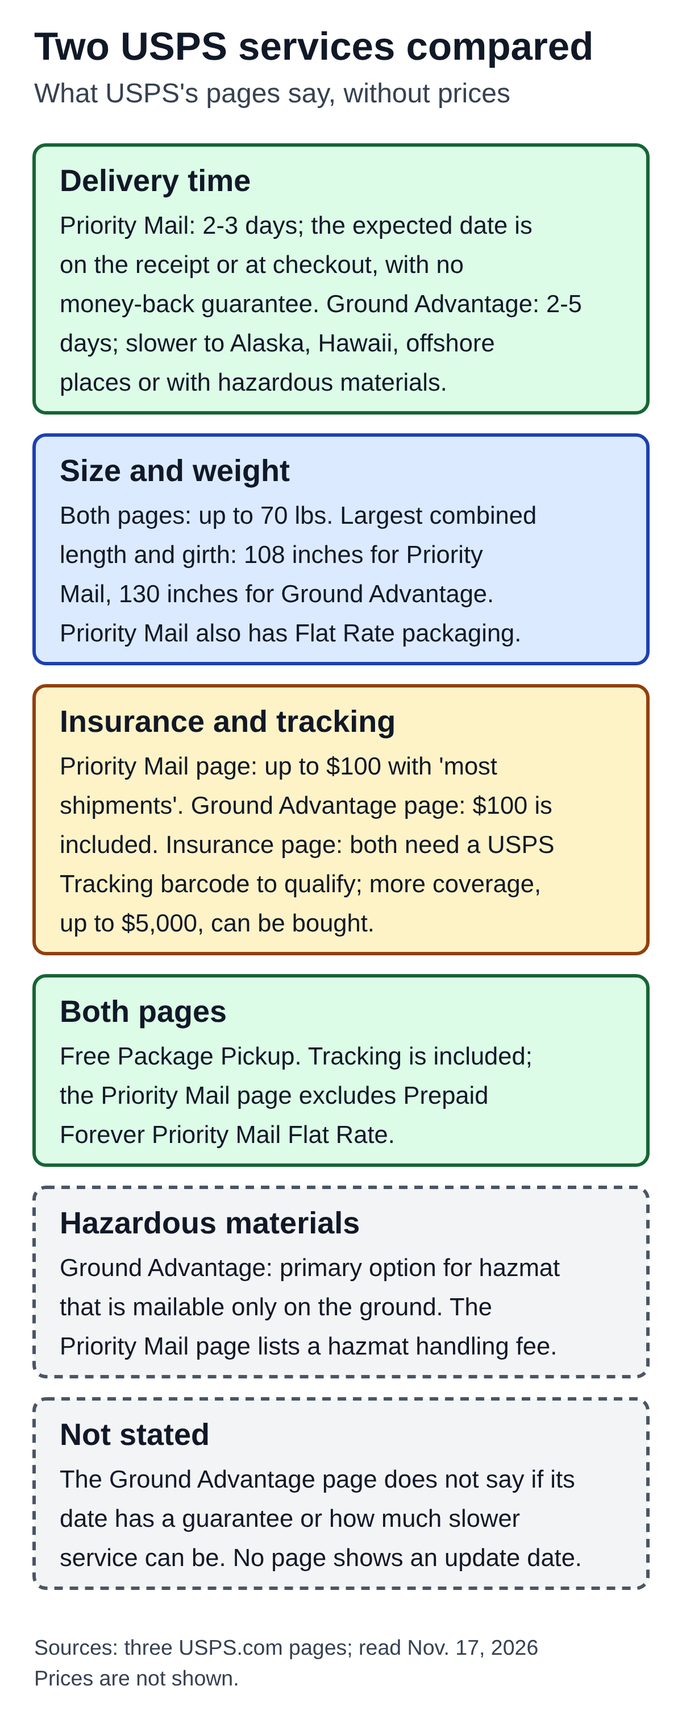
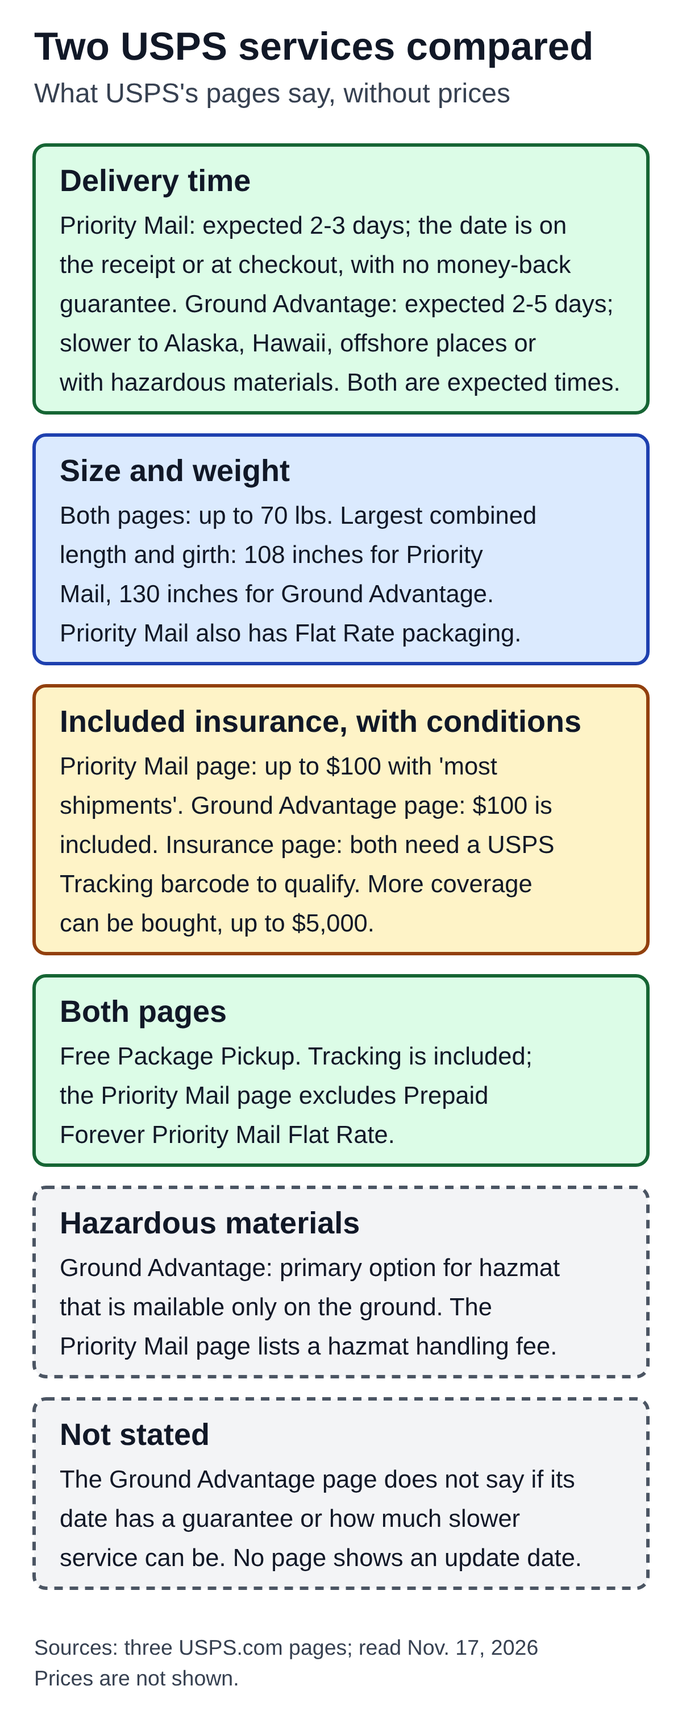
Apply Gate 2 FIX to the two USPS drafts
Priority Mail vs Ground Advantage: delivery times shown as expected in the
diagram, alt, lead and meta; insurance card retitled with conditions; DMM 503
Certified Mail sentence quoted from the DMM.
USPS claims: Insurance card separates not-bought-separately from no insurance
and from Missing Mail Search; appeal clock difference shown in the diagram
and alt with DMM 609.6 added; meta says no sooner than day 15; DMM 503
checked by Claude and the reviewer. QA, source notes and decision log updated.

Claude-Session: https://claude.ai/code/session_01BXtGEA3Qzg6u2ejRb8jbFU

diff --git a/content/drafts/usps-priority-mail-vs-ground-advantage.md b/content/drafts/usps-priority-mail-vs-ground-advantage.md
@@ -1,29 +1,29 @@
 ---
 title: "Priority Mail vs. Ground Advantage: What USPS Pages Say"
 slug: usps-priority-mail-vs-ground-advantage
-meta_description: "USPS lists Priority Mail at 2-3 days and Ground Advantage at 2-5 days. See size limits, included insurance, tracking and pickup as USPS describes them."
+meta_description: "USPS gives expected delivery of 2-3 days for Priority Mail and 2-5 days for Ground Advantage. See size limits, included insurance, tracking and pickup."
 category: Postal service and stamps
 focus_keyword: priority mail vs ground advantage
 status: draft
 date: 2026-11-17
 internal_link_candidates: usps-package-pickup-how-it-works, usps-holiday-shipping-deadlines-2026, usps-tracking-status-what-it-means, usps-certified-mail-how-it-works, usps-missing-mail-search-how-it-works (all published; all linked in the body; decide at Gate 2)
 image: assets/optimized/usps-priority-mail-vs-ground-advantage.png
-image_alt: "Diagram of what USPS pages say about Priority Mail and USPS Ground Advantage, without prices. Delivery time: Priority Mail 2-3 days, with the expected date on the receipt or at checkout and no money-back guarantee; Ground Advantage 2-5 days, with slower service possible for Alaska, Hawaii, offshore places or hazardous materials. Size and weight: both pages say up to 70 lbs; largest combined length and girth is 108 inches for Priority Mail and 130 inches for Ground Advantage; Priority Mail also has Flat Rate packaging. Insurance and tracking: the Priority Mail page says up to $100 with most shipments, the Ground Advantage page says $100 is included, and the insurance page says both need a USPS Tracking barcode to qualify; more coverage, up to $5,000, can be bought. Both pages: Free Package Pickup and tracking included, and the Priority Mail page excludes Prepaid Forever Priority Mail Flat Rate from tracking. Hazardous materials: Ground Advantage is the primary option for hazmat that is mailable only on the ground; the Priority Mail page lists a hazmat handling fee. Not stated: whether the Ground Advantage date has a guarantee, how much slower service can be, and update dates. Sources: three USPS.com pages, read Nov. 17, 2026."
+image_alt: "Diagram of what USPS pages say about Priority Mail and USPS Ground Advantage, without prices. Delivery time: Priority Mail expected 2-3 days, with the expected date on the receipt or at checkout and no money-back guarantee; Ground Advantage expected 2-5 days, with slower service possible for Alaska, Hawaii, offshore places or hazardous materials; both are expected times. Size and weight: both pages say up to 70 lbs; largest combined length and girth is 108 inches for Priority Mail and 130 inches for Ground Advantage; Priority Mail also has Flat Rate packaging. Included insurance, with conditions: the Priority Mail page says up to $100 with most shipments, the Ground Advantage page says $100 is included, and the insurance page says both need a USPS Tracking barcode to qualify; more coverage can be bought, up to $5,000. Both pages: Free Package Pickup and tracking included, and the Priority Mail page excludes Prepaid Forever Priority Mail Flat Rate from tracking. Hazardous materials: Ground Advantage is the primary option for hazmat that is mailable only on the ground; the Priority Mail page lists a hazmat handling fee. Not stated: whether the Ground Advantage date has a guarantee, how much slower service can be, and update dates. Sources: three USPS.com pages, read Nov. 17, 2026."
 ---
 
 # Priority Mail vs. Ground Advantage: What USPS Pages Say
 
-**USPS's Priority Mail page says 2-3 days and its USPS Ground Advantage page says 2-5 days, and the two pages differ on size limits, included insurance and other conditions.** The Priority Mail page says its expected delivery date "does not come with a money-back guarantee"; the Ground Advantage page does not say either way.
+**USPS's Priority Mail page gives an expected delivery of 2-3 days and its USPS Ground Advantage page an expected 2-5 days, and the two pages differ on size limits, included insurance and other conditions.** The Priority Mail page says its expected delivery date "does not come with a money-back guarantee"; the Ground Advantage page does not say either way.
 
 This article compares three USPS.com pages as of November 17, 2026: "Priority Mail" (usps.com/ship/priority-mail.htm), "Ground Advantage" (usps.com/ship/ground-advantage.htm) and "Shipping Insurance and Delivery Services" (usps.com/ship/insurance-extra-services.htm). None of the three shows an update date, and this article did not find a USPS FAQ article for Ground Advantage. It gives no prices; all three pages show them. It does not cover Priority Mail Express, business and commercial options, international mail, or which service to pick. Where a fact appears on only one page, the article says so and does not assume the other service is the same.
 
-![Diagram of what USPS pages say about Priority Mail and USPS Ground Advantage, without prices. Delivery time: Priority Mail 2-3 days, with the expected date on the receipt or at checkout and no money-back guarantee; Ground Advantage 2-5 days, with slower service possible for Alaska, Hawaii, offshore places or hazardous materials. Size and weight: both pages say up to 70 lbs; largest combined length and girth is 108 inches for Priority Mail and 130 inches for Ground Advantage; Priority Mail also has Flat Rate packaging. Insurance and tracking: the Priority Mail page says up to $100 with most shipments, the Ground Advantage page says $100 is included, and the insurance page says both need a USPS Tracking barcode to qualify; more coverage, up to $5,000, can be bought. Both pages: Free Package Pickup and tracking included, and the Priority Mail page excludes Prepaid Forever Priority Mail Flat Rate from tracking. Hazardous materials: Ground Advantage is the primary option for hazmat that is mailable only on the ground; the Priority Mail page lists a hazmat handling fee. Not stated: whether the Ground Advantage date has a guarantee, how much slower service can be, and update dates. Sources: three USPS.com pages, read Nov. 17, 2026.](assets/optimized/usps-priority-mail-vs-ground-advantage.png)
+![Diagram of what USPS pages say about Priority Mail and USPS Ground Advantage, without prices. Delivery time: Priority Mail expected 2-3 days, with the expected date on the receipt or at checkout and no money-back guarantee; Ground Advantage expected 2-5 days, with slower service possible for Alaska, Hawaii, offshore places or hazardous materials; both are expected times. Size and weight: both pages say up to 70 lbs; largest combined length and girth is 108 inches for Priority Mail and 130 inches for Ground Advantage; Priority Mail also has Flat Rate packaging. Included insurance, with conditions: the Priority Mail page says up to $100 with most shipments, the Ground Advantage page says $100 is included, and the insurance page says both need a USPS Tracking barcode to qualify; more coverage can be bought, up to $5,000. Both pages: Free Package Pickup and tracking included, and the Priority Mail page excludes Prepaid Forever Priority Mail Flat Rate from tracking. Hazardous materials: Ground Advantage is the primary option for hazmat that is mailable only on the ground; the Priority Mail page lists a hazmat handling fee. Not stated: whether the Ground Advantage date has a guarantee, how much slower service can be, and update dates. Sources: three USPS.com pages, read Nov. 17, 2026.](assets/optimized/usps-priority-mail-vs-ground-advantage.png)
 
 ## Delivery time
 
 The Priority Mail page is headed "2-3 Days" and says the service "includes tracking and delivery in 2-3 days." Its footnote says that "in most cases" the expected delivery date printed on your receipt or provided at checkout "will reflect a delivery time of 2-3 days and is based on origin, destination, and drop-off time," and adds: "The expected delivery date does not come with a money-back guarantee." The page also points to the USPS Service Standards Map for delivery time estimates.
 
-The Ground Advantage page is headed "Packages in 2–5 Days," and its footnote reads "Expected delivery in 2–5 days." The footnote then says that "packages going to certain places (including Alaska, Hawaii, and offshore destinations), or containing hazardous materials may receive slower service." The page does not say how much slower, and it does not say whether its expected delivery date comes with a money-back guarantee or not. It also does not say where the date is shown, or that it depends on drop-off time, as the Priority Mail footnote does. This article therefore does not say Ground Advantage has no guarantee; it says the page is silent on it.
+The Ground Advantage page is headed "Packages in 2–5 Days," and its footnote reads "Expected delivery in 2–5 days." The footnote then says that "packages going to certain places (including Alaska, Hawaii, and offshore destinations), or containing hazardous materials may receive slower service." Both pages word the time as an expected delivery, so this article reads 2-3 and 2-5 days as USPS's expected times, not as fixed delivery times. The Ground Advantage page does not say how much slower, and it does not say whether its expected delivery date comes with a money-back guarantee or not. It also does not say where the date is shown, or that it depends on drop-off time, as the Priority Mail footnote does. This article therefore does not say Ground Advantage has no guarantee; it says the page is silent on it.
 
 For December, see our article on the [USPS 2026 holiday shipping deadlines](https://statesideexplained.com/usps-holiday-shipping-deadlines-2026/), which covers USPS's recommended send-by dates for both services.
 
@@ -41,7 +41,7 @@ The two pages word the insurance differently. The Priority Mail page lists "USPS
 
 The conditions are on the Priority Mail page's footnotes and on the insurance page. The Priority Mail footnote says insurance is "available only for certain products and to certain destinations," that "insurance does not cover certain items," and points to the Domestic Mail Manual: 609.4.3 (Non-payable Claims), 609 (Filing Indemnity Claims for Loss or Damage) and 503.4 (Insured Mail). It says Priority Mail domestic shipments must have the applicable USPS Tracking barcode to qualify; that insurance is not included for Priority Mail Open & Distribute, Premium Forwarding Service-Residential or Premium Forwarding Service-Commercial; and that when additional insurance is bought, "it replaces the included insurance."
 
-The insurance page says that both Priority Mail and Ground Advantage domestic shipments "must have an applicable USPS Tracking barcode to qualify for included insurance," and that Priority Mail insurance "is not included when you purchase it along with certain extra services." Its footnote says the included coverage is limited to a maximum liability of $100 when the piece bears an Intelligent Mail package barcode or USPS retail tracking barcode "and the mailer pays retail or commercial prices." The page does not name the extra services it means. Our [Certified Mail article](https://statesideexplained.com/usps-certified-mail-how-it-works/) reports a related DMM rule: no insurance coverage is provided when purchasing Certified Mail, except for Priority Mail pieces with included insurance.
+The insurance page says that both Priority Mail and Ground Advantage domestic shipments "must have an applicable USPS Tracking barcode to qualify for included insurance," and that Priority Mail insurance "is not included when you purchase it along with certain extra services." Its footnote says the included coverage is limited to a maximum liability of $100 when the piece bears an Intelligent Mail package barcode or USPS retail tracking barcode "and the mailer pays retail or commercial prices." The page does not name the extra services it means. Separately, section 503 of the Domestic Mail Manual says: "Except for Priority Mail pieces with included insurance, no insurance coverage is provided when purchasing Certified Mail." Our [Certified Mail article](https://statesideexplained.com/usps-certified-mail-how-it-works/) covers that service.
 
 Tracking is included in both. The Priority Mail page excludes Prepaid Forever Priority Mail Flat Rate products from tracking; none of the three pages says whether those packages get the included insurance, so the article does not say so either. For what tracking statuses mean, see our [tracking status article](https://statesideexplained.com/usps-tracking-status-what-it-means/). If a package does not arrive, USPS.com asks you to keep your postmarked mailing receipt and proof of value in case you need a claim; our [Missing Mail article](https://statesideexplained.com/usps-missing-mail-search-how-it-works/) covers the search for lost mail.
 
@@ -55,10 +55,11 @@ The Ground Advantage page calls the service "our best-priced service for items u
 
 ## What the pages do not say
 
-None of the three pages shows an update date. The Ground Advantage page does not say whether its expected date has a guarantee, how much slower "slower service" can be, or whether the date depends on drop-off time. The Priority Mail page lists some exclusions in its footnotes but says restrictions and exclusions apply and points to the Domestic Mail Manual for the rest; this article read only the claims section of the manual (609), not 503.4. Whether Prepaid Forever Priority Mail Flat Rate packages get the included insurance is not stated. Neither page says which service is better for a given package.
+None of the three pages shows an update date. The Ground Advantage page does not say whether its expected date has a guarantee, how much slower "slower service" can be, or whether the date depends on drop-off time. The Priority Mail page lists some exclusions in its footnotes but says restrictions and exclusions apply and points to the Domestic Mail Manual for the rest; this article read only the claims section of the manual (609) and the one sentence of section 503 quoted above, not 503.4 itself. Whether Prepaid Forever Priority Mail Flat Rate packages get the included insurance is not stated. Neither page says which service is better for a given package.
 
 ## Sources
 
 - USPS.com, "Priority Mail" (no update date): https://www.usps.com/ship/priority-mail.htm
 - USPS.com, "Ground Advantage" (no update date): https://www.usps.com/ship/ground-advantage.htm
 - USPS.com, "Shipping Insurance and Delivery Services" (no update date): https://www.usps.com/ship/insurance-extra-services.htm
+- USPS, Domestic Mail Manual, 503 "Additional Mailing Services" (no date; used for one sentence on Certified Mail and insurance): https://pe.usps.com/text/dmm300/503.htm

diff --git a/content/drafts/usps-claim-how-it-works.md b/content/drafts/usps-claim-how-it-works.md
@@ -1,14 +1,14 @@
 ---
 title: "USPS Claims: Filing Periods, Who Can File and What You Need"
 slug: usps-claim-how-it-works
-meta_description: "USPS says to file a lost-package claim after day 15 and by day 60 for Priority Mail and Ground Advantage. See who can file, what to have ready and appeals."
+meta_description: "USPS says to file a lost-package claim no sooner than day 15 and no later than day 60 for Priority Mail and Ground Advantage. See who can file."
 category: Postal service and stamps
 focus_keyword: usps claim
 status: draft
 date: 2026-11-17
 internal_link_candidates: usps-missing-mail-search-how-it-works, usps-certified-mail-how-it-works, usps-tracking-status-what-it-means (all published; all linked in the body; decide at Gate 2). The published Missing Mail article does not yet link back here; proposed link-only edit after Gate 2, see the QA record.
 image: assets/optimized/usps-claim-how-it-works.png
-image_alt: "Diagram of what USPS pages say about filing a claim, with no amounts or fees. Who can file: the mailer or the addressee; for a lost item the Domestic Mail Manual says whoever has the original receipt or online label record; exceptions for USPS Returns and USPS Ship. Damaged or missing contents: file immediately and no later than 60 days after the mailing date. Lost item, in days after mailing: Priority Mail Express day 7 to day 60; Priority Mail, Ground Advantage, Insured Mail, COD and Registered Mail day 15 to day 60; APO, FPO and DPO mail opens on day 21, 45 or 75 and closes at 180 days or 1 year. Have ready: tracking or label number, proof of insurance and proof of value; for damage, photos and a repair estimate; keep the packaging. After you file: a decision usually in 5 to 10 days and up to 30 for in-depth claims; two appeals, 30 days each; uninsured items cannot be claimed and Missing Mail Search is the alternative. Sources: the USPS.com claims page, the USPS FAQ dated Nov. 6, 2026 and Domestic Mail Manual section 609, read Nov. 17, 2026."
+image_alt: "Diagram of what USPS pages say about filing a claim, with no amounts or fees. Who can file: the mailer or the addressee; for a lost item the Domestic Mail Manual says whoever has the original receipt or online label record; exceptions for USPS Returns and USPS Ship. Damaged or missing contents: file immediately and no later than 60 days after the mailing date. Lost item, counted from the mailing date: Priority Mail Express no sooner than 7 days and no later than 60 days; Priority Mail, Ground Advantage, Insured Mail, COD and Registered Mail no sooner than 15 days and no later than 60 days; APO, FPO and DPO mail from 21, 45 or 75 days, up to 180 days or 1 year. Insurance: a claim needs insurance, which some services include and which need not be bought separately; a Missing Mail Search looks for the item and is not a claim. Have ready: tracking or label number, proof of insurance and proof of value; for damage, photos and a repair estimate; keep the packaging. After you file: a decision usually in 5 to 10 days and up to 30 for in-depth claims; two appeals of 30 days each, counted from the decision date or from receiving it, and the sources differ, so check the USPS claims page. Sources: the USPS.com claims page, the USPS FAQ dated Nov. 6, 2026 and Domestic Mail Manual section 609, read Nov. 17, 2026."
 ---
 
 # USPS Claims: Filing Periods, Who Can File and What You Need
@@ -17,7 +17,7 @@ image_alt: "Diagram of what USPS pages say about filing a claim, with no amounts
 
 This article compares what three official sources say about a domestic insurance claim: the USPS.com page "File a Claim" (no update date), the USPS FAQ "Domestic Claims - The Basics" (Article 000006089, dated November 6, 2026) and section 609 of the Domestic Mail Manual (DMM), "Filing Indemnity Claims for Loss or Damage" (no update date). It also uses one line from USPS.com's "Shipping Insurance and Delivery Services" page. The wording is as of November 17, 2026. The sources overlap but are not identical, and the article shows where they differ instead of choosing one. It gives no prices, fees or payment limits. It does not cover international claims, bulk claims, or Priority Mail Express details. For a search for mail that has not arrived, see our [Missing Mail article](https://statesideexplained.com/usps-missing-mail-search-how-it-works/), which covers the search and points to USPS's claims page.
 
-![Diagram of what USPS pages say about filing a claim, with no amounts or fees. Who can file: the mailer or the addressee; for a lost item the Domestic Mail Manual says whoever has the original receipt or online label record; exceptions for USPS Returns and USPS Ship. Damaged or missing contents: file immediately and no later than 60 days after the mailing date. Lost item, in days after mailing: Priority Mail Express day 7 to day 60; Priority Mail, Ground Advantage, Insured Mail, COD and Registered Mail day 15 to day 60; APO, FPO and DPO mail opens on day 21, 45 or 75 and closes at 180 days or 1 year. Have ready: tracking or label number, proof of insurance and proof of value; for damage, photos and a repair estimate; keep the packaging. After you file: a decision usually in 5 to 10 days and up to 30 for in-depth claims; two appeals, 30 days each; uninsured items cannot be claimed and Missing Mail Search is the alternative. Sources: the USPS.com claims page, the USPS FAQ dated Nov. 6, 2026 and Domestic Mail Manual section 609, read Nov. 17, 2026.](assets/optimized/usps-claim-how-it-works.png)
+![Diagram of what USPS pages say about filing a claim, with no amounts or fees. Who can file: the mailer or the addressee; for a lost item the Domestic Mail Manual says whoever has the original receipt or online label record; exceptions for USPS Returns and USPS Ship. Damaged or missing contents: file immediately and no later than 60 days after the mailing date. Lost item, counted from the mailing date: Priority Mail Express no sooner than 7 days and no later than 60 days; Priority Mail, Ground Advantage, Insured Mail, COD and Registered Mail no sooner than 15 days and no later than 60 days; APO, FPO and DPO mail from 21, 45 or 75 days, up to 180 days or 1 year. Insurance: a claim needs insurance, which some services include and which need not be bought separately; a Missing Mail Search looks for the item and is not a claim. Have ready: tracking or label number, proof of insurance and proof of value; for damage, photos and a repair estimate; keep the packaging. After you file: a decision usually in 5 to 10 days and up to 30 for in-depth claims; two appeals of 30 days each, counted from the decision date or from receiving it, and the sources differ, so check the USPS claims page. Sources: the USPS.com claims page, the USPS FAQ dated Nov. 6, 2026 and Domestic Mail Manual section 609, read Nov. 17, 2026.](assets/optimized/usps-claim-how-it-works.png)
 
 ## Who can file
 
@@ -46,9 +46,9 @@ The three sources do not match in every detail. The DMM chart lumps domestic Pri
 
 ## Does the item need insurance?
 
-USPS.com says eligible items include Priority Mail Express items and other insured mail, COD items, and Registered Mail with insurance, and that "your insurance may have been included with the USPS service or purchased separately." USPS.com's insurance page says Priority Mail and USPS Ground Advantage include insurance (the page gives the amount) when the domestic shipment has an applicable USPS Tracking barcode; the [tracking status article](https://statesideexplained.com/usps-tracking-status-what-it-means/) explains tracking statuses. Our [Certified Mail article](https://statesideexplained.com/usps-certified-mail-how-it-works/) reports the DMM rule that no insurance coverage is provided when purchasing Certified Mail, except for Priority Mail pieces with included insurance.
+USPS.com says eligible items include Priority Mail Express items and other insured mail, COD items, and Registered Mail with insurance, and that "your insurance may have been included with the USPS service or purchased separately." USPS.com's insurance page says Priority Mail and USPS Ground Advantage include insurance (the page gives the amount) when the domestic shipment has an applicable USPS Tracking barcode; the [tracking status article](https://statesideexplained.com/usps-tracking-status-what-it-means/) explains tracking statuses. DMM section 503 says: "Except for Priority Mail pieces with included insurance, no insurance coverage is provided when purchasing Certified Mail." Our [Certified Mail article](https://statesideexplained.com/usps-certified-mail-how-it-works/) covers that service.
 
-For uninsured items the sources are direct. USPS.com says USPS "may not legally pay compensation for uninsured lost or damaged articles" and points to a Missing Mail Search for uninsured mail that is missing or delayed. The FAQ says that if insurance was not purchased at the time of mailing, USPS "is unable to honor any requests to be compensated."
+Insurance does not have to be bought separately: as quoted above, it may have been included with the service. What the sources rule out is a claim for an item with no insurance at all. USPS.com says USPS "may not legally pay compensation for uninsured lost or damaged articles." The FAQ says that "if insurance is not purchased at the time of mailing," USPS "is unable to honor any requests to be compensated"; the same FAQ lists Priority Mail and USPS Ground Advantage as including insurance in the price of postage, and this article does not reconcile the two wordings. Your receipt or label record is what shows whether the package was insured (see below). A Missing Mail Search, which USPS.com offers for uninsured mail that is missing or delayed, is a search for the item and not a claim for payment.
 
 ## What to have ready
 
@@ -64,7 +64,7 @@ USPS.com says online is the fastest and easiest way: log in or create a free USP
 
 USPS.com says USPS usually sends claims decisions "within 5-10 days." The FAQ gives the same range for most claims and adds that claims requiring in-depth processing, such as high claim amounts, can take up to 30 days. After approval, USPS.com says payment should arrive in 7-10 business days, and that USPS "does not pay a claim higher than an item's actual value." A claim can be paid in part or denied; the decision letter lists the reasons.
 
-For a partly paid or denied claim, there are two appeals, but the sources count the 30 days differently. USPS.com says you may file an appeal "within 30 days of receiving the decision," and a second appeal "within 30 days of the date you received the appeal denial." The FAQ says a first appeal is "within 30 days of the date of the original decision" and a final appeal to the Consumer Advocate is "within 30 days of the date of the second denial." Whether "receiving" and "date of" mean the same day is not stated.
+For a partly paid or denied claim, there are two appeals, but the sources count the 30 days differently. USPS.com says you may file an appeal "within 30 days of receiving the decision," and a second appeal "within 30 days of the date you received the appeal denial." The FAQ says a first appeal is "within 30 days of the date of the original decision" and a final appeal to the Consumer Advocate is "within 30 days of the date of the second denial." The DMM (section 609.6) says a customer may appeal "within 30 days from the date of the original decision," and for the final review says only "within 30 days," without saying from when. Whether "receiving" and "date of" mean the same day is not stated, and this article does not say which wording applies. Anyone close to a limit may want to count from the decision date and to check the current wording on the [USPS claims page](https://www.usps.com/help/claims.htm), which the DMM names for filing appeals.
 
 On refunds, the FAQ says postage reimbursement is included with the claim payment if the item was lost or not delivered, and that insurance fees "are not reimbursed." USPS.com sends postage and fee refunds to a separate page, which this article did not read.
 
@@ -74,7 +74,7 @@ The DMM's list of nonpayable situations includes: evidence of insurance coverage
 
 ## What the sources do not say
 
-USPS.com says its instructions "do not include all the details and exceptions" in the DMM, so this article does not cover every case either. Neither USPS.com nor the DMM shows an update date. None of the sources says how many claims are approved, or when an item counts as lost. They give different pictures of the receipt requirement, as shown above. The FAQ points to DMM section 609 for more on payable claims; this article read section 609 only, not the other DMM sections it cites.
+USPS.com says its instructions "do not include all the details and exceptions" in the DMM, so this article does not cover every case either. Neither USPS.com nor the DMM shows an update date. None of the sources says how many claims are approved, or when an item counts as lost. They give different pictures of the receipt requirement, as shown above. The FAQ points to DMM section 609 for more on payable claims; this article read section 609 and the one sentence of section 503 quoted above, not the other DMM sections it cites.
 
 ## Sources
 
@@ -82,3 +82,4 @@ USPS.com says its instructions "do not include all the details and exceptions" i
 - USPS FAQ, "Domestic Claims - The Basics" (Article 000006089, Nov. 6, 2026): https://faq.usps.com/s/article/Domestic-Claims-The-Basics
 - USPS, Domestic Mail Manual, 609 "Filing Indemnity Claims for Loss or Damage" (no update date): https://pe.usps.com/text/dmm300/609.htm
 - USPS.com, "Shipping Insurance and Delivery Services" (no update date; used for one line on included insurance and one on the 60-day wording): https://www.usps.com/ship/insurance-extra-services.htm
+- USPS, Domestic Mail Manual, 503 "Additional Mailing Services" (no date; used for one sentence on Certified Mail and insurance): https://pe.usps.com/text/dmm300/503.htm

diff --git a/editorial/qa/usps-claim-how-it-works.md b/editorial/qa/usps-claim-how-it-works.md
@@ -1,6 +1,6 @@
 # QA record — usps-claim-how-it-works
 
-Article: `content/drafts/usps-claim-how-it-works.md` (draft, 2026-11-17; about 1,930 body words without the alt text; one H1, nine H2 sections; one table of 3 columns and 10 rows).
+Article: `content/drafts/usps-claim-how-it-works.md` (draft, 2026-11-17; about 2,090 body words (after Gate 2 FIX) without the alt text; one H1, nine H2 sections; one table of 3 columns and 10 rows).
 Brief: `research/briefs/usps-claim-how-it-works.md`. Sources: `research/sources/usps-claim-how-it-works.md` (S1 USPS.com "File a Claim", no update date; S2 USPS FAQ 000006089, Nov 6, 2026; S3 DMM 609, no date; S4 USPS.com insurance page, two lines).
 Stage: **draft, Gate 1 done by Claude; waiting for Gate 2.** Rule-type post: re-read the claims page, the FAQ and DMM 609 right before any publishing.
 
@@ -62,3 +62,13 @@ The user asked that the two posts be linked to each other. This post links to th
 - Confirm the appeal paragraph shows the two 30-day wordings without choosing one.
 - Decide whether to trim the nonpayable and special-cases section, and approve the proposed link-only edit to the Missing Mail article.
 - Dated rule post: re-read the claims page, the FAQ and DMM 609 right before publishing; report before publishing if the chart, the who-can-file wording, the evidence rules or the appeal wording changed.
+
+## Gate 2 FIX on `745ec39` (applied 2026-11-17)
+
+1. **"Uninsured items: no claim" card.** The reviewer read it as too broad, because Priority Mail and Ground Advantage can include insurance and need not have it bought separately. The diagram now has an Insurance card ("A claim needs insurance, which some services include; it need not be bought separately. A Missing Mail Search looks for the item; it is not a claim."), and the alt matches. The body (Does the item need insurance?) now separates insurance bought separately from having no insurance at all, quotes USPS.com ("may have been included with the USPS service or purchased separately") and the FAQ ("if insurance is not purchased at the time of mailing" ... "unable to honor any requests to be compensated"), notes that the FAQ also lists Priority Mail and USPS Ground Advantage as including insurance in the price of postage and that the two wordings are not reconciled, says the receipt or label record shows whether the package was insured, and says a Missing Mail Search is a search for the item and not a claim for payment.
+2. **Appeal clock.** The After you file card and the alt now say the 30 days are counted from the decision date or from receiving it, that the sources differ, and to check the USPS claims page. The body adds DMM 609.6, read directly by Claude on 2026-11-17: a customer may appeal "within 30 days from the date of the original decision" (6.2) and for the final review "within 30 days" with no start stated (6.3), and links the USPS claims page. The article still does not say which wording applies; it says anyone close to a limit may want to count from the decision date and check the current wording.
+3. **Boundary day.** The meta description said "after day 15". It now says "no sooner than day 15 and no later than day 60" (143 characters), the same wording as the FAQ chart, and the lost-item diagram card and alt now say "no sooner than 15 days, no later than 60" for each group and "from 21, 45 or 75 days, up to 180 days or 1 year" for APO/FPO/DPO. The table headers and the lead already used "no sooner than" and "no later than". Checked: no "after day 15" remains anywhere in the article, diagram or alt.
+4. **DMM 503 and who checked what.** The Certified Mail sentence was checked on the official DMM text twice on 2026-11-17: by the reviewer through a search tool, and by Claude in the built-in browser (pe.usps.com/text/dmm300/503.htm: "Except for Priority Mail pieces with included insurance, no insurance coverage is provided when purchasing Certified Mail."). The article now quotes DMM 503 directly and lists it in Sources; Claim C13 is verified, not carried over. Only that sentence of section 503 was read.
+5. **Length.** The reviewer said the length need not be cut; the section order (When to file, What to have ready) is unchanged and the nonpayable section keeps each source's conditions. The article is now about 2,090 body words after the fixes.
+
+Changed parts only: the meta description, the Does the item need insurance section, the appeals paragraph, the What the sources do not say scope sentence, Sources, the three diagram cards (lost item, insurance, after you file) and the alt. Image after the change: PNG 546,819 bytes `588a59fc84484885`, SVG 4,442 bytes `07c9dfeb39040dd9` (C2PA stripped; render check `[]`, crops viewed). Link-back to the Missing Mail article: approved by the reviewer after both posts are published; to be recorded (location and result) when applied. Not published.

diff --git a/editorial/qa/usps-priority-mail-vs-ground-advantage.md b/editorial/qa/usps-priority-mail-vs-ground-advantage.md
@@ -1,6 +1,6 @@
 # QA record — usps-priority-mail-vs-ground-advantage
 
-Article: `content/drafts/usps-priority-mail-vs-ground-advantage.md` (draft, 2026-11-17; about 1,270 body words without the alt text; one H1, six H2 sections; no table).
+Article: `content/drafts/usps-priority-mail-vs-ground-advantage.md` (draft, 2026-11-17; about 1,320 body words (after Gate 2 FIX) without the alt text; one H1, six H2 sections; no table).
 Brief: `research/briefs/usps-priority-mail-vs-ground-advantage.md`. Sources: `research/sources/usps-priority-mail-vs-ground-advantage.md` (S1 USPS.com Priority Mail, S2 USPS.com Ground Advantage, S3 USPS.com Shipping Insurance and Delivery Services; none shows an update date).
 Stage: **draft, Gate 1 done by Claude; waiting for Gate 2.** Rule-type post: re-read the three pages right before any publishing.
 
@@ -53,3 +53,12 @@ One H1 in the body, H2 sections only, prose with a bulleted list only for Source
 - Confirm that $100 and $5,000 are acceptable as coverage amounts under "no prices".
 - Link plan: the article does not link to the claims article because that article is not published; after both are published, a link between them can be added in a small edit (see the claims QA record).
 - Dated rule post: re-read the three pages right before publishing; report before publishing if the delivery-time wording, size limits, insurance wording or pickup and tracking lines changed.
+
+## Gate 2 FIX on `745ec39` (applied 2026-11-17)
+
+1. **Expected, not fixed, delivery times.** The reviewer noted that the diagram and alt showed only "2-3 days" and "2–5 days". The diagram card and the alt now say "expected 2-3 days" and "expected 2-5 days", keep the Priority Mail "no money-back guarantee" line and the Ground Advantage "slower to Alaska, Hawaii, offshore places or with hazardous materials" line, and end with "Both are expected times". The lead sentence and the meta description (now 151 characters, "expected delivery of 2-3 days ... and 2-5 days") say "expected"; the Delivery time section adds that both pages word the time as an expected delivery, so the article reads the numbers as expected times, not fixed delivery times. The Ground Advantage page stays described as silent on a guarantee.
+2. **Insurance card.** Retitled "Included insurance, with conditions"; it keeps "up to $100" for Priority Mail ("most shipments"), "$100 is included" for Ground Advantage, the Tracking barcode condition attributed to the insurance page, and "up to $5,000" as the most that can be bought. Alt matches.
+3. **DMM 503 sentence.** Read directly by Claude on 2026-11-17 (pe.usps.com/text/dmm300/503.htm): "Except for Priority Mail pieces with included insurance, no insurance coverage is provided when purchasing Certified Mail." The article now quotes it from the DMM and links the Certified Mail article for the service; DMM 503 is added to Sources, and the text says only that sentence of section 503 (not 503.4) was read. The reviewer's own check of the same text is consistent with this. Claim C13 is now verified in the DMM, not carried over.
+4. **Prices.** The reviewer confirmed $100 and $5,000 as coverage limits fit "no prices"; they still appear only as limits.
+
+Changed parts only: the lead, meta description, Delivery time paragraph, the Certified Mail sentence in Insurance and tracking, the "What the pages do not say" scope sentence, Sources, the diagram card texts and the alt. Image after the change: PNG 578,060 bytes `6106ebc912e21b9b`, SVG 4,390 bytes `69375b562faffc94` (C2PA stripped; render check `[]`, crops viewed). Not published.

diff --git a/docs/decision-log.md b/docs/decision-log.md
@@ -1505,3 +1505,7 @@ Gate 2 PASS on `230c4b1`. Right before publishing, the two USPS pages (the artic
 ## 2026-11-17 (KST) — Priority Mail vs Ground Advantage and USPS claims drafted
 
 Sixth survey (`docs/next-candidates-2026-11-17.md`) approved by the user for both candidates, with conditions: explain delivery time by checking the guarantee and the footnotes and do not assert what cannot be confirmed; check insurance, pickup and size limits per service; for claims, check start and end days per service, the damage and loss difference, the role split from the Missing Mail post (linked both ways), and insurance and evidence exceptions; keep prices out; record that search volume was not checked. Both drafts and diagrams are done, Gate 1 passed against the live official pages (Priority Mail 30 of 30, Ground Advantage 25 of 25, insurance page 11 of 11; claims page 52 of 52, FAQ 44 of 44, DMM 609 26 of 27 with the one miss carried over from the published Certified Mail article). Choices: for Ground Advantage the article says its page is silent on a guarantee instead of saying there is none; no Ground Advantage FAQ was found and the article says so; all dollar limits except $100 and $5,000 coverage amounts are left out; the two posts do not link to each other until both are published; the Missing Mail article is not edited until the user approves a link-only change. Holds unchanged: USPS Thanksgiving waits for the 2026 USPS notice and TSA holiday food for a 2026 TSA food notice; the scheduled check is 2026-11-18 09:00 KST (`trig_01Bj9WAUDCPwXzVFW9J7MppC`), confirm only, no publishing. Not published; waiting for Gate 2.
+
+## 2026-11-17 (KST) — Gate 2 FIX on `745ec39` applied to both USPS drafts
+
+Reviewer asked for: Priority Mail vs Ground Advantage — expected (not fixed) delivery times in the diagram and alt, and the insurance limits kept as limits with conditions; USPS claims — separate "no insurance bought separately" from "no insurance at all" and from Missing Mail Search in the diagram and alt, show the appeal-clock difference in the diagram and alt with a pointer to the USPS claims page, change the meta "after day 15" to "no sooner than day 15", and record who checked the DMM 503 Certified Mail sentence. All applied; Claude also read DMM 609.6 (appeals count from the original decision date; the final-review start is not stated) and DMM 503 directly. The reviewer approved a link-only edit of the published Missing Mail article after both posts are published; it is not applied yet. Both posts stay unpublished and waiting for the re-check of the changed parts. Holds unchanged: USPS Thanksgiving and TSA holiday food; check at 2026-11-18 09:00 KST, confirm only.

diff --git a/research/sources/usps-claim-how-it-works.md b/research/sources/usps-claim-how-it-works.md
@@ -46,3 +46,9 @@ URL https://www.usps.com/ship/insurance-extra-services.htm. Priority Mail and US
 4. Appeal clock: from receiving the decision (S1) against from the date of the decision (S2).
 5. Opening day for lost items: given (S1, S2, S3); not given on the insurance page (S4).
 6. Saved claims deleted after 3 days (S2) against no period (S1).
+
+## Added 2026-11-17 (Gate 2 FIX on `745ec39`)
+
+- DMM 609.6 (https://pe.usps.com/text/dmm300/609.htm, read 2026-11-17): "6.2 Appealing a Claim Decision A customer may appeal a claim decision within 30 days from the date of the original decision at usps.com/help/claims.htm. Customers who did not file their claim online must send written appeals to Accounting Services" ; "6.3 Final USPS Decision of Claims If Accounting Services sustains the denial of a claim, the customer may submit an additional appeal at usps.com/help/claims.htm within 30 days for final review and decision." The final-review start is not stated.
+- DMM 503 (https://pe.usps.com/text/dmm300/503.htm, read 2026-11-17, one sentence): "Except for Priority Mail pieces with included insurance, no insurance coverage is provided when purchasing Certified Mail."
+- Appeal clock now shown from three sources: USPS.com "receiving the decision"; FAQ and DMM 6.2 "date of the original decision"; final review: FAQ "date of the second denial", USPS.com "date you received the appeal denial", DMM no start.

diff --git a/research/sources/usps-priority-mail-vs-ground-advantage.md b/research/sources/usps-priority-mail-vs-ground-advantage.md
@@ -36,3 +36,7 @@ URL https://www.usps.com/ship/insurance-extra-services.htm. No update date shown
 ## Not found
 
 A USPS FAQ article for Ground Advantage: guessed URL `usps-ground-advantage-the-basics` returned 404; the FAQ global search page listed no article links.
+
+## Added 2026-11-17 (Gate 2 FIX on `745ec39`)
+
+- DMM 503 (https://pe.usps.com/text/dmm300/503.htm, read 2026-11-17, one sentence only): "Except for Priority Mail pieces with included insurance, no insurance coverage is provided when purchasing Certified Mail." Section 503.4 itself was not read.
